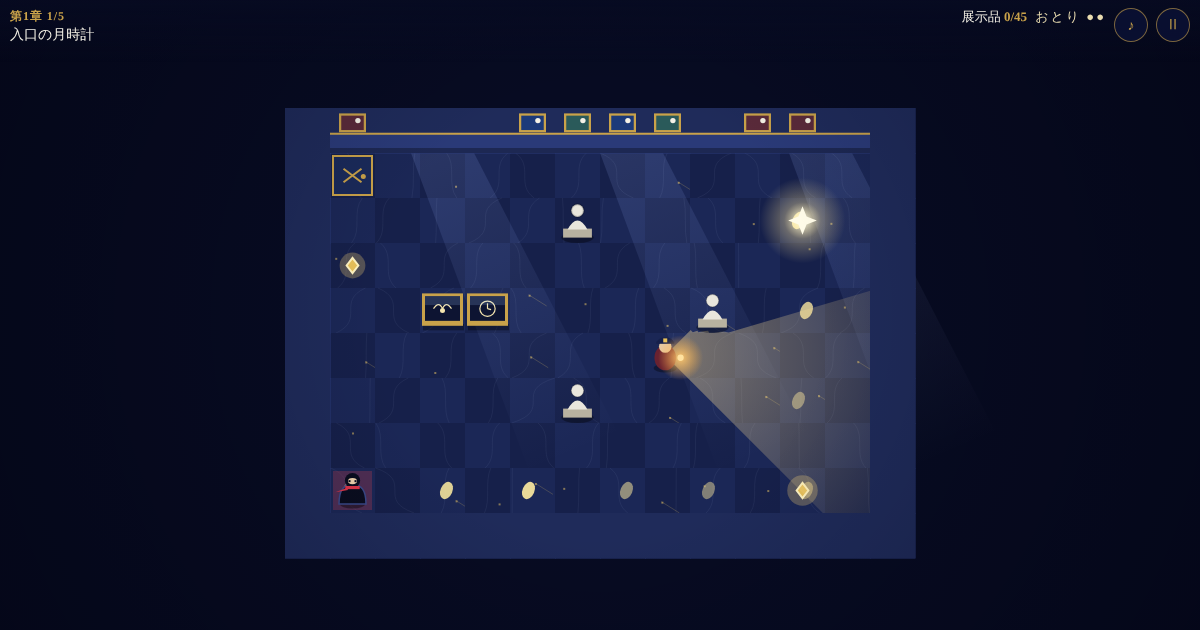
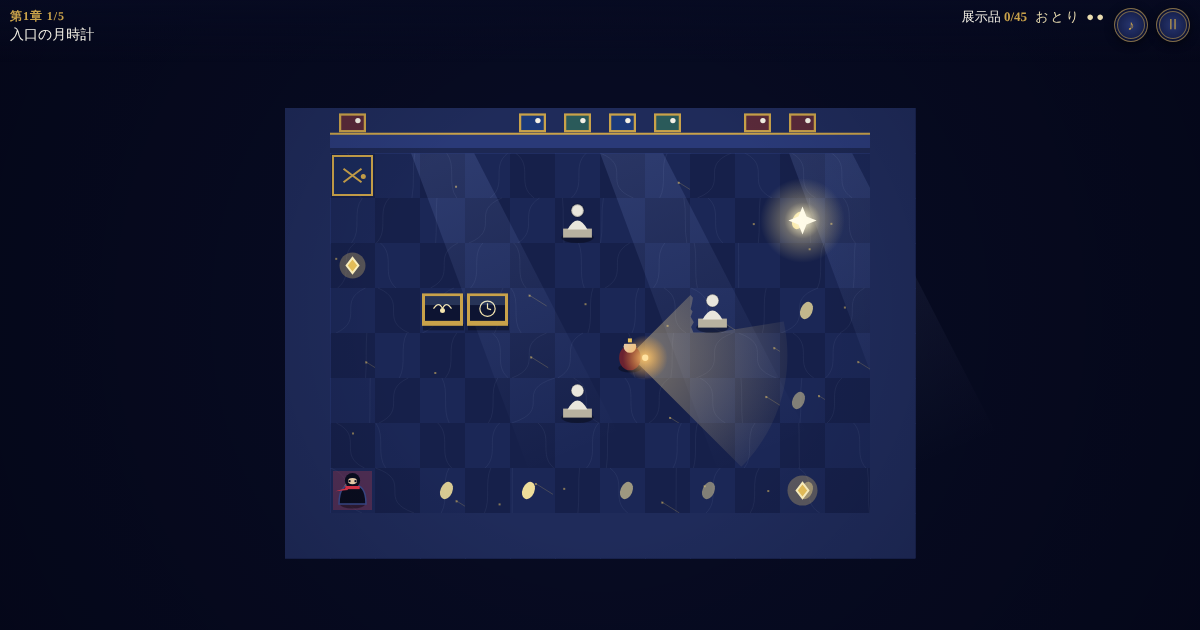
[FIX] 月光美術館と十二の怪盗：見習い設定をやめ、第1室をやさしく
Claude-Session: https://claude.ai/code/session_01MokQntdd3n6K58QCqVKUx1

Changed region(s): [[0.4933, 0.4524, 0.74, 0.8143], [0.925, 0.0, 1.0, 0.0603]]

diff --git a/site/games/moonlight-heist/rooms.js b/site/games/moonlight-heist/rooms.js
@@ -24,7 +24,8 @@ R.push({
     put('S', [1, 8]); put('E', [1, 1]); put('K', [11, 2]); put('o', [1, 3], [11, 8]);
     put('P', [6, 2], [9, 4], [6, 6]); hl('C', 4, 3, 4);
   }),
-  guards: [{ pts: [[2, 5], [11, 5]] }], par: 70,
+  guards: [{ pts: [[3, 5], [9, 5]] }], par: 70,
+  view: 3.5, guardSpeed: 0.7, grace: 3, // 最初の室は手引き：視界は短く、歩きはゆっくり
   hint: '光る足跡をたどると、かけらに着く。',
   items: [['月時計のかけら', '止まった針が、少しだけ動いた。'], ['金の歯車', '時計の奥でまだ温かい。'], ['古い入館券', '誰かの夜の思い出が挟まっている。']],
 });
@@ -216,18 +217,19 @@ export const CHAPTERS = [
     flavor: ['月のない夜は、とても静かだ。', '赤い光が、壁を這っている。', '奥から、誰かの足音。'] },
 ];
 
-// 序章：怪盗団「夜鴉」の見習いルウの、最後の仕事。無線係キツネが案内役。
+// 序章：怪盗団「夜鴉」で十年働かされてきたルウの、最後の仕事。無線係キツネが案内役。
 export const INTRO = [
   '怪盗団「夜鴉（よがらす）」の隠れ家。',
+  '幼いころ団に拾われ、十年。ルウは盗みだけを教えられてきた。',
   '頭領「月光美術館の“夜のかけら”を、すべて持ってこい」',
   '頭領「やり遂げたら、お前を団から解放してやる」',
   'ルウ（……これが、最後の仕事）',
   '――ザザッ。耳の無線が鳴る。',
-  'キツネ「聞こえるか、見習い。今夜の案内役は俺だ。行くぞ」',
+  'キツネ「聞こえるか、ルウ。今夜の案内役は俺だ。行くぞ」',
 ];
 
 export const STORY = {
-  ch1: ['【館長の手紙】', '「見習いのルウへ。', 'かけらは盗まれたのではない。', '街のみんなが、失くしたのだ。', 'つづきは、奥の特別展で。」',
+  ch1: ['【館長の手紙】', '「怪盗ルウへ。', 'かけらは盗まれたのではない。', '街のみんなが、失くしたのだ。', 'つづきは、奥の特別展で。」',
     'キツネ「街の失くしもの、か。頭領はそんな話、ひと言もしなかったな」', 'キツネ「……この館の匂い、昔どこかで嗅いだ気がする」'],
   ch2: ['【十二人の怪盗の記録】', 'ルウ「怪盗は誰なの？」', '記録「十二人は、みな……」', 'ルウ「……わたしたち、街の人？」', '記録「そう。夜を預けた、十二人だ」',
     'キツネ「……その十二人目は、俺だ。昔、ここに夜を預けた」', 'キツネ「頭領のやり方はよく知ってる。最後まで付き合うぞ、ルウ」'],

diff --git a/site/games/moonlight-heist/game.js b/site/games/moonlight-heist/game.js
@@ -81,7 +81,7 @@ function titleScreen() {
   mode = 'title';
   const started = Object.keys(save.rooms).length > 0;
   show('title', `<div class="card">
-    <p class="sub">怪盗団「夜鴉」の見習いルウ、最後の仕事</p>
+    <p class="sub">怪盗団「夜鴉」の怪盗ルウ、最後の仕事</p>
     <h2 class="big">月光美術館と<br>十二の怪盗</h2>
     <p>警備員に見つからずに「夜のかけら」を集めきれば、<br>ルウは団から自由になれる。</p>
     <p class="who fox-l tl">${FOX}<span><b>無線 ― キツネ</b>案内は俺に任せろ。足跡はこっちで照らす。</span></p>
@@ -510,7 +510,7 @@ function coneRays(g, ms, room) {
     const a = base - CFG.viewHalf + (i / N) * CFG.viewHalf * 2;
     const dx = Math.cos(a), dy = Math.sin(a);
     let d = 0.2;
-    for (; d < CFG.viewDist; d += 0.1) if (L.blockedSight(room, Math.floor(g.x + dx * d), Math.floor(g.y + dy * d), ms)) break;
+    for (; d < (room.view || CFG.viewDist); d += 0.1) if (L.blockedSight(room, Math.floor(g.x + dx * d), Math.floor(g.y + dy * d), ms)) break;
     pts.push([g.x + dx * d, g.y + dy * d]);
   }
   return pts;
@@ -612,7 +612,7 @@ function render(t) {
   if (save.opt.showView) for (const g of run.guards) {
     const pts = coneRays(g, ms, room);
     const chase = g.mode === 'chase';
-    const grad = ctx.createRadialGradient(wx(g.x), wy(g.y), 4, wx(g.x), wy(g.y), CFG.viewDist * TS);
+    const grad = ctx.createRadialGradient(wx(g.x), wy(g.y), 4, wx(g.x), wy(g.y), (run.room.view || CFG.viewDist) * TS);
     grad.addColorStop(0, chase ? 'rgba(255,90,100,0.5)' : 'rgba(255,225,150,0.42)'); grad.addColorStop(1, chase ? 'rgba(255,90,100,0.08)' : 'rgba(255,225,150,0.06)');
     ctx.fillStyle = grad; ctx.beginPath(); pts.forEach(([x, y], i) => (i ? ctx.lineTo(wx(x), wy(y)) : ctx.moveTo(wx(x), wy(y)))); ctx.closePath(); ctx.fill();
   }

diff --git a/site/games/moonlight-heist/logic.js b/site/games/moonlight-heist/logic.js
@@ -54,7 +54,7 @@ export function lineClear(room, x0, y0, x1, y1, ms) {
 
 export function guardSees(room, g, px, py, ms) {
   const dx = px - g.x, dy = py - g.y, d = Math.hypot(dx, dy);
-  if (d > CFG.viewDist) return false;
+  if (d > (room.view || CFG.viewDist)) return false;
   if (d > 0.3) {
     const dot = (dx * g.fx + dy * g.fy) / d;
     if (dot < Math.cos(CFG.viewHalf)) return false;
@@ -200,7 +200,7 @@ function gotoCell(run, g, x, y) {
 
 function stepGuards(run, dt, patrolOnly) {
   const room = run.room, ms = run._ms = moverSet(room, run.t);
-  const sp = run.slow ? 0.8 : 1;
+  const sp = (run.slow ? 0.8 : 1) * (run.room.guardSpeed || 1);
   for (const g of run.guards) {
     g.sawT += dt;
     if (g.mode === 'patrol') {
@@ -367,7 +367,7 @@ export function step(run, input, dt) {
     if (Math.hypot(lp.x - p.x, lp.y - p.y) < l.r) run.lightSeen = true;
   }
   const thr = input.sneak ? CFG.thrSneak : CFG.thrWalk;
-  if (run.time < CFG.grace) { seeing = 0; run.lightSeen = false; }
+  if (run.time < (run.room.grace || CFG.grace)) { seeing = 0; run.lightSeen = false; }
   if (seeing || run.lightSeen) {
     run.unseen = 0;
     run.gauge = Math.min(1, run.gauge + dt / (run.lightSeen && !seeing ? CFG.lightThr : thr));
@@ -485,7 +485,7 @@ export function safeRouteExists(room, phase, horizon = 150, wantPath = false) {
     if (blockedMove(room, Math.floor(x), Math.floor(y), ms)) return false;
     for (const g of tl[Math.min(i, tl.length - 1)]) {
       if (Math.hypot(g.x - x, g.y - y) < nr) return false;
-      if (i * dt >= CFG.grace && guardSees(room, g, x, y, ms)) return false;
+      if (i * dt >= (room.grace || CFG.grace) && guardSees(room, g, x, y, ms)) return false;
     }
     for (const l of room.lights || []) { const lp = lightPos(l, i * dt); if (Math.hypot(lp.x - x, lp.y - y) < l.r + 0.2) return false; }
     return true;
